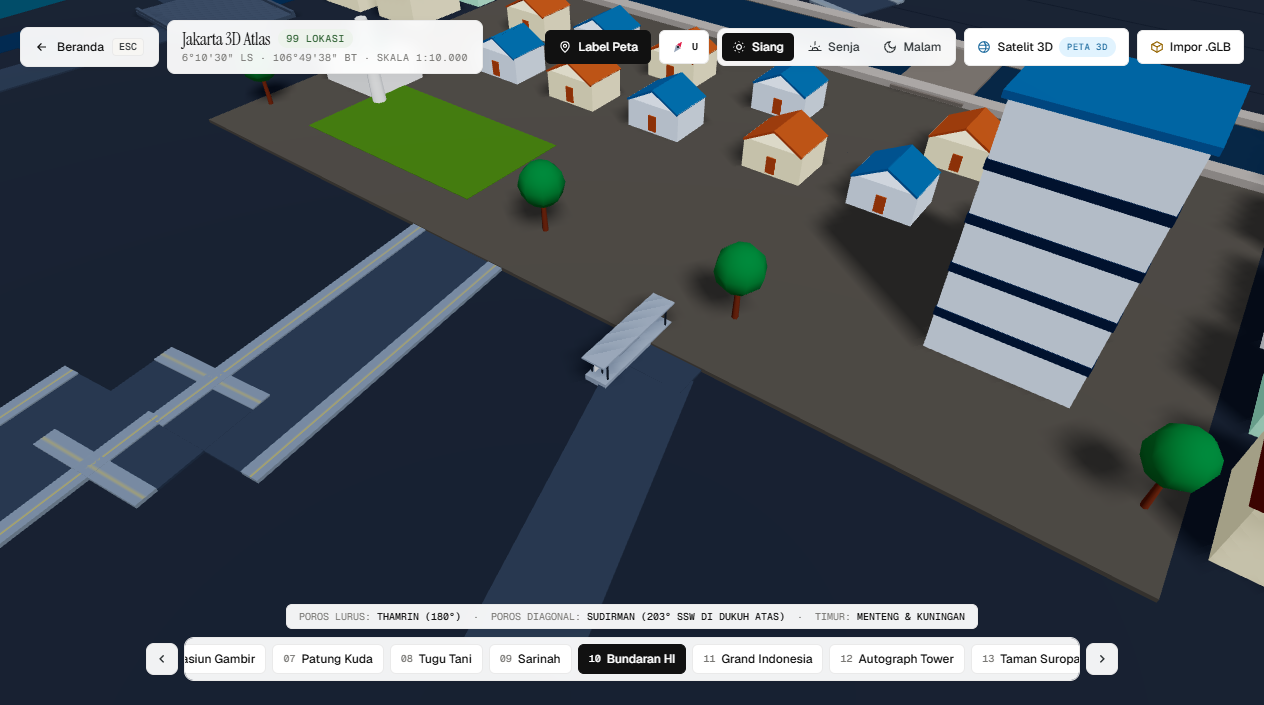
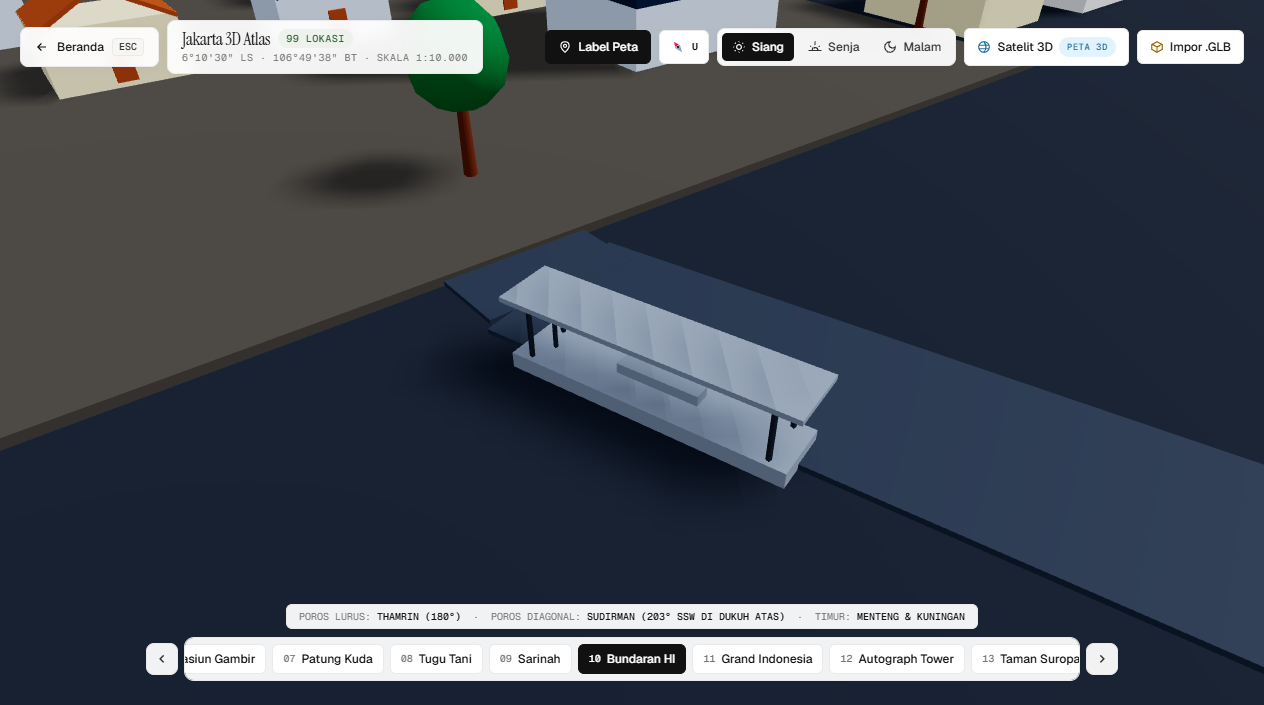
fix(void-e): halte Rorotan berdiri di Jalan Malaka IV HB
Jalan Rorotan XI seluruhnya berjalan di bawah pelat tapak Kampung
Rorotan dan hanya menyisakan 3,6 unit di luar pelat, sehingga peron
12 unit terbenam 3,9 unit ke pelat. Peron dipindah ke bahu barat
Jalan Malaka IV HB, 9,1 unit dari simpang gerbang kampung, dengan
kanopi 6,1 unit bebas dari pelat tapak.

diff --git a/src/world/CityScene.js b/src/world/CityScene.js
@@ -7293,7 +7293,10 @@ export class CityScene {
       { name: 'Halte Kawasan Logistik Marunda', road: 'Medan', near: [1690, -1063], side: -1 },
       { name: 'Halte Rusunawa Nagrak', road: 'Jalan Komplek Militer', near: [1828, -1046], side: 1 },
       { name: 'Halte KBN Cakung', road: 'Jalan Cakung Cilincing Timur', near: [1640, -700], side: -1 },
-      { name: 'Halte Kampung Rorotan', road: 'Jalan Rorotan XI', near: [1904, -649], side: -1 }
+      // Jalan Rorotan XI seluruhnya berjalan di bawah pelat tapak kampung dan
+      // hanya menyisakan 3,6 unit di luar pelat, jadi peron berlabuh di bahu
+      // barat Jalan Malaka IV HB sembilan unit dari simpang gerbang kampung.
+      { name: 'Halte Kampung Rorotan', road: 'Jalan Malaka IV HB', near: [1907.1, -639.8], side: 1 }
     ];
 
     const findRoadPoint = (roadName, near) => {

diff --git a/test_landmarks.js b/test_landmarks.js
@@ -2327,10 +2327,15 @@ assert.ok(voidETransitMethod.includes('parkingBays'), 'Void E transit stats must
   'Medan',
   'Jalan Komplek Militer',
   'Jalan Cakung Cilincing Timur',
-  'Jalan Rorotan XI'
+  'Jalan Malaka IV HB'
 ].forEach((name) => {
   assert.ok(voidETransitMethod.includes(name), `Void E transit missing the ${name} halte corridor`);
 });
+
+assert.ok(
+  voidETransitMethod.includes('near: [1907.1, -639.8]'),
+  'Halte Kampung Rorotan must stand clear of the Kampung Rorotan site slab'
+);
 
 assert.ok(voidEInfillMethod.includes('transitReservations'), 'Void E infill must reserve the transit hub footprint');
 assert.ok(voidEInfillMethod.includes('insideTransitReservation'), 'Void E infill missing the transit reservation test');

diff --git a/docs/ROADMAP.md b/docs/ROADMAP.md
@@ -7,7 +7,7 @@ Repo: `WinduAthallahAhmad-09/3D-View-Jakarta` (branch `main`)
 
 - **99 landmark anchor** (#01 Monas s.d. #99 Kampung Rorotan) di `src/config/landmarks.js`.
 - **100 tombol tour** (99 landmark + tampilan aerial) di `index.html`; seluruh ID landmark memiliki tombol dan builder model.
-- **Satu skrip verifikasi statis** di `test_landmarks.js`, dijalankan dengan `npm test`. Saat ini menjalankan 9.118 assertion yang memeriksa data, metadata, builder, tombol tour, batas deviasi posisi, serta integrasi dataset OSM, infill, dan transit Void B. Sejak F4, skrip juga memastikan lima builder gerbong KRL/MRT/KAI/LRT memakai `bakeRailCarGroup`, PJU memakai dua `InstancedMesh` dengan pool 12 `PointLight`, 647 kendaraan memakai delapan `InstancedMesh`, shadow map berjalan statis dengan refresh terarah, dan DPR adaptif menyinkronkan renderer serta composer. Check 40 mengunci audit visual 2026-10-27: exclusion Danau Rawa Buaya, framing enam preset, material hangar Halim, metalness fasad SCBD, serta atap Stasiun Tanjung Priok. Check 41 mengunci enam anchor Void C Tahap 1: rentang posisi, deviasi GPS ≤80 unit, builder, mapping `CityScene`, tombol tour, dan minimal tiga fakta edukatif. Check 42 mengunci dataset OSM Void C Tahap 2: 185 ruas/478 titik dengan koordinat terbatas pada clip box, lisensi ODbL, proyeksi tanpa warp, tujuh nama jalan kunci, jarak maksimum 60 unit ke enam anchor, builder `buildVoidCMeruya()`, dua konektor akses, jembatan otomatis, dan minimal empat pemakaian mask `isNearVoidCRoad`. Check 43 mengunci infill Void C Tahap 3: `buildVoidCInfill()` dipanggil setelah builder jalan, lima `InstancedMesh` bernama `voidc-*`, koridor ruko Ciledug/Joglo/Bojong, zona Kreo, mask dataset OSM, serta larangan `PointLight` dan material malam baru. Check 44 mengunci transit Void C Tahap 4: `buildVoidCTransit()` setelah infill, Park-and-Ride Kembangan, empat feeder halte pada jalan OSM, lima nama mesh `voidc-transit-*`, statistik runtime, lima draw call, serta larangan `PointLight` dan material malam baru. Check 45 mengunci enam anchor Void D Tahap 1: rentang posisi x/z, deviasi GPS ≤80 unit, builder dengan marker mesh, mapping `CityScene`, tombol tour, minimal tiga fakta edukatif, dan jarak minimum 70 unit antaranchor. Check 46 mengunci dataset OSM Void D Tahap 2: 201 ruas/590 titik, 31 waterway/156 titik, 19 poligon air/225 titik dengan koordinat terbatas pada clip box, lisensi ODbL, proyeksi tanpa warp, tujuh nama jalan kunci, jarak maksimum 60 unit ke keenam anchor, builder `buildVoidDPenjaringan()`, jembatan otomatis, delapan mesh `voidd-*`, serta larangan `PointLight` dan material malam baru. Check 47 mengunci infill Void D Tahap 3: lima `InstancedMesh` `voidd-*`, tujuh koridor ruko, 13 zona permukiman, dua klaster gudang, mask jalan/air/anchor/Pluit, batas koridor ruko sendiri, serta larangan `PointLight` dan material malam baru. Check 48 mengunci transit Void D Tahap 4: `buildVoidDTransit()` setelah infill, Park-and-Ride TWA Angke Kapuk, enam feeder halte pada jalan OSM, lima nama mesh `voidd-transit-*`, statistik runtime, lima draw call, serta larangan `PointLight` dan material malam baru. Check 49 mengunci enam anchor Void E Tahap 1: rentang posisi x/z, deviasi GPS ≤80 unit, builder dengan marker mesh, mapping `CityScene`, tombol tour #94–#99, minimal tiga fakta edukatif, jarak minimum 70 unit antaranchor, ground plane 4.800 unit, grid 4.400 unit/220 divisi, serta larangan `PointLight`. Check 50 mengunci dataset OSM Void E Tahap 2: 148 ruas/640 titik dan 23 waterway/252 titik dengan koordinat terbatas pada clip box, lisensi ODbL, proyeksi tanpa warp, sepuluh nama jalan kunci, lima nama waterway, lebar jalan per kelas, jarak maksimum 60 unit ke lima anchor (<85 unit untuk Rusunawa Nagrak), eksklusi jalur inspeksi Kanal Banjir Timur, serta larangan ruas yang menumpang badan kanal. Check 51 mengunci builder jaringan Void E Tahap 2: urutan `buildVoidECilincing()` setelah `buildVoidDTransit()`, impor dataset OSM, delapan mesh `voide-*`, konektor `Akses Rusunawa Nagrak` ke Jalan Komplek Militer, jembatan otomatis, PJU dan pohon tanpa `PointLight` serta material malam baru, statistik `voidEOsmStats` delapan draw call, dan mask `isNearVoidERoad` untuk infill Tahap 3. Check 52 mengunci infill Void E Tahap 3: urutan `buildVoidEInfill()` setelah jaringan dan sebelum `buildVoidBInfillAndIndustry()`, lima `InstancedMesh` `voide-*`, empat koridor ruko, zona Cilincing/Kebantenan/Marunda/Rorotan/Sungai Tiram, klaster gudang KBN Cakung/Marunda/Cilincing industri, mask jalan/air/enam anchor, batas koridor ruko sendiri, statistik `voidEInfillStats` lima draw call, serta larangan `PointLight` dan material malam baru. Check 53 mengunci transit Void E Tahap 4: urutan `buildVoidETransit()` setelah infill dan sebelum `buildVoidBInfillAndIndustry()`, Park-and-Ride Marunda, enam feeder halte pada jalan OSM (Marunda Empang, Jayapura, Medan, Komplek Militer, Cakung Cilincing Timur, Rorotan XI), lima mesh `voide-transit-*`, statistik `voidETransitStats` lima draw call, reservasi lahan `transitReservations` pada infill, serta larangan `PointLight` dan material malam baru. Ini **bukan 33 unit test suite** dan belum mencakup render, interaksi, atau performa.
+- **Satu skrip verifikasi statis** di `test_landmarks.js`, dijalankan dengan `npm test`. Saat ini menjalankan 9.119 assertion yang memeriksa data, metadata, builder, tombol tour, batas deviasi posisi, serta integrasi dataset OSM, infill, dan transit Void B. Sejak F4, skrip juga memastikan lima builder gerbong KRL/MRT/KAI/LRT memakai `bakeRailCarGroup`, PJU memakai dua `InstancedMesh` dengan pool 12 `PointLight`, 647 kendaraan memakai delapan `InstancedMesh`, shadow map berjalan statis dengan refresh terarah, dan DPR adaptif menyinkronkan renderer serta composer. Check 40 mengunci audit visual 2026-10-27: exclusion Danau Rawa Buaya, framing enam preset, material hangar Halim, metalness fasad SCBD, serta atap Stasiun Tanjung Priok. Check 41 mengunci enam anchor Void C Tahap 1: rentang posisi, deviasi GPS ≤80 unit, builder, mapping `CityScene`, tombol tour, dan minimal tiga fakta edukatif. Check 42 mengunci dataset OSM Void C Tahap 2: 185 ruas/478 titik dengan koordinat terbatas pada clip box, lisensi ODbL, proyeksi tanpa warp, tujuh nama jalan kunci, jarak maksimum 60 unit ke enam anchor, builder `buildVoidCMeruya()`, dua konektor akses, jembatan otomatis, dan minimal empat pemakaian mask `isNearVoidCRoad`. Check 43 mengunci infill Void C Tahap 3: `buildVoidCInfill()` dipanggil setelah builder jalan, lima `InstancedMesh` bernama `voidc-*`, koridor ruko Ciledug/Joglo/Bojong, zona Kreo, mask dataset OSM, serta larangan `PointLight` dan material malam baru. Check 44 mengunci transit Void C Tahap 4: `buildVoidCTransit()` setelah infill, Park-and-Ride Kembangan, empat feeder halte pada jalan OSM, lima nama mesh `voidc-transit-*`, statistik runtime, lima draw call, serta larangan `PointLight` dan material malam baru. Check 45 mengunci enam anchor Void D Tahap 1: rentang posisi x/z, deviasi GPS ≤80 unit, builder dengan marker mesh, mapping `CityScene`, tombol tour, minimal tiga fakta edukatif, dan jarak minimum 70 unit antaranchor. Check 46 mengunci dataset OSM Void D Tahap 2: 201 ruas/590 titik, 31 waterway/156 titik, 19 poligon air/225 titik dengan koordinat terbatas pada clip box, lisensi ODbL, proyeksi tanpa warp, tujuh nama jalan kunci, jarak maksimum 60 unit ke keenam anchor, builder `buildVoidDPenjaringan()`, jembatan otomatis, delapan mesh `voidd-*`, serta larangan `PointLight` dan material malam baru. Check 47 mengunci infill Void D Tahap 3: lima `InstancedMesh` `voidd-*`, tujuh koridor ruko, 13 zona permukiman, dua klaster gudang, mask jalan/air/anchor/Pluit, batas koridor ruko sendiri, serta larangan `PointLight` dan material malam baru. Check 48 mengunci transit Void D Tahap 4: `buildVoidDTransit()` setelah infill, Park-and-Ride TWA Angke Kapuk, enam feeder halte pada jalan OSM, lima nama mesh `voidd-transit-*`, statistik runtime, lima draw call, serta larangan `PointLight` dan material malam baru. Check 49 mengunci enam anchor Void E Tahap 1: rentang posisi x/z, deviasi GPS ≤80 unit, builder dengan marker mesh, mapping `CityScene`, tombol tour #94–#99, minimal tiga fakta edukatif, jarak minimum 70 unit antaranchor, ground plane 4.800 unit, grid 4.400 unit/220 divisi, serta larangan `PointLight`. Check 50 mengunci dataset OSM Void E Tahap 2: 148 ruas/640 titik dan 23 waterway/252 titik dengan koordinat terbatas pada clip box, lisensi ODbL, proyeksi tanpa warp, sepuluh nama jalan kunci, lima nama waterway, lebar jalan per kelas, jarak maksimum 60 unit ke lima anchor (<85 unit untuk Rusunawa Nagrak), eksklusi jalur inspeksi Kanal Banjir Timur, serta larangan ruas yang menumpang badan kanal. Check 51 mengunci builder jaringan Void E Tahap 2: urutan `buildVoidECilincing()` setelah `buildVoidDTransit()`, impor dataset OSM, delapan mesh `voide-*`, konektor `Akses Rusunawa Nagrak` ke Jalan Komplek Militer, jembatan otomatis, PJU dan pohon tanpa `PointLight` serta material malam baru, statistik `voidEOsmStats` delapan draw call, dan mask `isNearVoidERoad` untuk infill Tahap 3. Check 52 mengunci infill Void E Tahap 3: urutan `buildVoidEInfill()` setelah jaringan dan sebelum `buildVoidBInfillAndIndustry()`, lima `InstancedMesh` `voide-*`, empat koridor ruko, zona Cilincing/Kebantenan/Marunda/Rorotan/Sungai Tiram, klaster gudang KBN Cakung/Marunda/Cilincing industri, mask jalan/air/enam anchor, batas koridor ruko sendiri, statistik `voidEInfillStats` lima draw call, serta larangan `PointLight` dan material malam baru. Check 53 mengunci transit Void E Tahap 4: urutan `buildVoidETransit()` setelah infill dan sebelum `buildVoidBInfillAndIndustry()`, Park-and-Ride Marunda, enam feeder halte pada jalan OSM (Marunda Empang, Jayapura, Medan, Komplek Militer, Cakung Cilincing Timur, Malaka IV HB), lima mesh `voide-transit-*`, statistik `voidETransitStats` lima draw call, reservasi lahan `transitReservations` pada infill, serta larangan `PointLight` dan material malam baru. Ini **bukan 33 unit test suite** dan belum mencakup render, interaksi, atau performa.
 - Kawasan inti Jakarta Pusat, Jakarta Selatan, dan Jakarta Utara selesai.
 - Jakarta Timur selesai 4 tahap.
 - Void A (Jakarta Barat Tengah) selesai 4 tahap.
@@ -229,12 +229,13 @@ Void E mencakup Cilincing, Marunda, Rorotan, dan KBN Cakung. Tahap 1 (selesai 20
 - **Verifikasi runtime Tahap 2** (Chrome headless 156 SwiftShader, viewport 1280×800, DPR 1): 0 error konsol dan 0 exception; delapan mesh `voide-*` ditemukan (roads 3.944 / sidewalks 3.264 / water 1.832 / bridges 336 / poles 810,7 / bulbs 1.026 triangle, dua `InstancedMesh` 107 pohon); `voidEOsmStats` = 148 ruas/640 titik/23 waterway/14 jembatan/38 lampu/107 pohon/1 konektor/8 draw call; selisih draw call terukur tepat **+8** (421 vs 413) saat mesh disembunyikan lewat render terkontrol `info.autoReset=false`; 13 `PointLight` tetap (1 Monas + pool 12 PJU); label #99 dalam frame; konektor 58,2 unit dari tapak dan 0,00 unit dari jalan OSM. Tiga belas screenshot `voide2-*.png` (9 siang, 4 malam) tersimpan; PJU menyala dengan bloom pada tampilan jalan malam.
 - **Builder infill Tahap 3 (selesai 2026-10-29):** `buildVoidEInfill()` berjalan setelah `buildVoidECilincing()` dan sebelum `buildVoidBInfillAndIndustry()`. Statistik runtime `voidEInfillStats`: **167 rumah**, **71 ruko**, **76 gudang**, **10 zona permukiman**, **4 koridor ruko**, dan **5 draw call**. Seluruh massa dirender sebagai lima `InstancedMesh` — `voide-houses`, `voide-shophouses`, `voide-house-roofs` (238 atap = 167 rumah + 71 ruko), `voide-warehouses`, dan `voide-warehouse-roofs` (76) — dengan warna per instance. Ruko berdiri dua sisi pada Jalan Raya Cilincing, Jalan Cakung Cilincing Timur, Jalan Cakung Cilincing Barat, dan Jalan Marunda Makmur, memakai rantai way yang disambung agar deret tidak terputus; gudang menempati 12 sub-zona dalam empat klaster (KBN Cakung, Marunda, Cilincing industri, Cakung timur). Penempatan memakai mask koridor seluruh jalan OSM, waterway (setengah lebar + 4), enam tapak anchor, batas koridor ruko sendiri, dan jarak antarinstance ≥ rA + rB + 2. Atap gudang memakai abu-abu menengah dan metalness 0,25 karena slate gelap + metalness tinggi tampil nyaris hitam tanpa environment map. Check 52 mengunci builder ini.
 - **Verifikasi runtime Tahap 3** (Chrome headless 156 SwiftShader, viewport 1280×800, DPR 1): 0 error konsol dan 0 exception; audit instance **167 rumah / 71 ruko / 76 gudang** mencatat 0 instance di dalam enam tapak anchor, 0 di badan air, 0 menabrak koridor jalan (jarak bebas minimum 8,02 / 7,70 / 13,98 unit), 0 pasangan tumpang-tindih, dan 0 di luar clip box; 238 atap rumah+ruko dan 76 atap gudang konsisten (sebelum Tahap 4 memesan lahan plaza dan mengurangi ruko menjadi 68 dengan 235 atap). Selisih draw call terukur tepat **+5** (426 vs 421, 6.280 triangle) lewat render terkontrol `info.autoReset=false`; 13 `PointLight` tetap (1 Monas + pool 12 PJU). Dua belas screenshot `voide3-*.png` (9 siang, 3 malam) tersimpan; malam hanya diterangi pool PJU karena massa infill belum terdaftar di `nightMaterials`.
-- **Builder transit Tahap 4 (selesai 2026-10-29):** `buildVoidETransit()` berjalan setelah `buildVoidEInfill()` dan sebelum `buildVoidBInfillAndIndustry()`. **Park-and-Ride Marunda** di utara Jalan Marunda Makmur: plaza beton 44×22 di (2.016, -1.284), driveway 8×14 ke badan arteri di sisi selatan, **8 lajur parkir** bergaris di sisi utara (z ≈ -1.290,5), dua shelter 12×2,2 di x 2.005/2.027 dengan punggung menghadap deret parkir dan muka ke arteri, totem di pintu masuk barat, dan **enam pohon** peneduh. **Enam feeder halte** berlabuh pada segmen OSM terdekat: Halte Rusunawa Marunda (Jalan Marunda Empang), Rumah Si Pitung (Jalan Jayapura), Kawasan Logistik Marunda (Medan), Rusunawa Nagrak (Jalan Komplek Militer), KBN Cakung (Jalan Cakung Cilincing Timur), dan Kampung Rorotan (Jalan Rorotan XI); tiap halte berupa peron 12×2,6 yang dinaikkan 0,7 unit, kanopi baja di empat kolom, bangku beton, dan papan rute. Seluruh elemen digabung menjadi **tiga mesh** (beton, baja, papan) plus **dua `InstancedMesh`** pohon = **5 draw call**, tanpa `PointLight` dan material malam baru. Lahan plaza dipesan di `buildVoidEInfill` melalui `transitReservations` [1.990, 2.042, -1.300, -1.268] agar ruko tidak menutup plaza; ruko **71 → 68** dan atap **238 → 235**. Check 53 mengunci builder ini.
-- **Verifikasi runtime Tahap 4** (Chrome headless 156 SwiftShader, viewport 1280×800, DPR 1): 0 error konsol dan 0 exception; `voidETransitStats` = Park and Ride Marunda/8 lajur/6 halte/6 pohon/5 draw call; lima mesh ditemukan (beton 264, baja 564, papan 264 triangle; dua `InstancedMesh` 6 instance); enam pusat halte berada 0,2 unit di dalam tepi koridor jalan yang dituju (sesuai rumus bahu `lebar/2 − 0,2`), 0 platform menembus mesh anchor, dan audit 730 instance infill di sekitar plaza mencatat 0 tumpang-tindih dengan jarak bebas minimum 10,2 unit; 13 `PointLight` tetap (1 Monas + pool 12 PJU). Draw call siang di kamera hub (2.016, 150, -1.140 → 2.016, 0, -1.290): **143** dengan transit dan **138** saat lima mesh disembunyikan — selisih tepat **+5**, triangle 57.514 vs 56.194. Lima belas screenshot `voide4-*.png` (9 siang, 2 malam, 4 close-up) tersimpan; statistik malam tidak diklaim karena pass bloom menimpa `renderer.info`.
+- **Builder transit Tahap 4 (selesai 2026-10-29):** `buildVoidETransit()` berjalan setelah `buildVoidEInfill()` dan sebelum `buildVoidBInfillAndIndustry()`. **Park-and-Ride Marunda** di utara Jalan Marunda Makmur: plaza beton 44×22 di (2.016, -1.284), driveway 8×14 ke badan arteri di sisi selatan, **8 lajur parkir** bergaris di sisi utara (z ≈ -1.290,5), dua shelter 12×2,2 di x 2.005/2.027 dengan punggung menghadap deret parkir dan muka ke arteri, totem di pintu masuk barat, dan **enam pohon** peneduh. **Enam feeder halte** berlabuh pada segmen OSM terdekat: Halte Rusunawa Marunda (Jalan Marunda Empang), Rumah Si Pitung (Jalan Jayapura), Kawasan Logistik Marunda (Medan), Rusunawa Nagrak (Jalan Komplek Militer), KBN Cakung (Jalan Cakung Cilincing Timur), dan Kampung Rorotan (Jalan Malaka IV HB, sembilan unit dari simpang Jalan Rorotan XI); tiap halte berupa peron 12×2,6 yang dinaikkan 0,7 unit, kanopi baja di empat kolom, bangku beton, dan papan rute. Seluruh elemen digabung menjadi **tiga mesh** (beton, baja, papan) plus **dua `InstancedMesh`** pohon = **5 draw call**, tanpa `PointLight` dan material malam baru. Lahan plaza dipesan di `buildVoidEInfill` melalui `transitReservations` [1.990, 2.042, -1.300, -1.268] agar ruko tidak menutup plaza; ruko **71 → 68** dan atap **238 → 235**. Check 53 mengunci builder ini.
+- **Verifikasi runtime Tahap 4** (Chrome headless 156 SwiftShader, viewport 1280×800, DPR 1): 0 error konsol dan 0 exception; `voidETransitStats` = Park and Ride Marunda/8 lajur/6 halte/6 pohon/5 draw call; lima mesh ditemukan (beton 264, baja 564, papan 264 triangle; dua `InstancedMesh` 6 instance); enam pusat halte berada 0,2 unit di dalam tepi koridor jalan yang dituju (sesuai rumus bahu `lebar/2 − 0,2`), kanopi Halte Kampung Rorotan 6,1 unit bebas dari tepi pelat tapak Rorotan, dan audit 730 instance infill di sekitar plaza mencatat 0 tumpang-tindih dengan jarak bebas minimum 10,2 unit; 13 `PointLight` tetap (1 Monas + pool 12 PJU). Draw call siang di kamera hub (2.016, 150, -1.140 → 2.016, 0, -1.290): **143** dengan transit dan **138** saat lima mesh disembunyikan — selisih tepat **+5**, triangle 57.514 vs 56.194. Lima belas screenshot `voide4-*.png` (9 siang, 2 malam, 4 close-up) tersimpan; statistik malam tidak diklaim karena pass bloom menimpa `renderer.info`.
 - **P1 yang diperbaiki saat verifikasi visual Tahap 4:** shelter hub awalnya memasang panel punggung di sisi selatan sehingga penumpang membelakangi arteri; panel punggung, dinding samping, dan papan rute dipindah ke sisi utara (menghadap deret parkir) agar muka shelter menghadap Jalan Marunda Makmur. Komentar arah juga dikoreksi: plaza berada di **utara** arteri, lajur parkir di sisi utara, driveway di sisi selatan.
+- **P2 diperbaiki 2026-10-29 — peron Rorotan menembus pelat tapak:** Jalan Rorotan XI seluruhnya berjalan di bawah pelat tapak Kampung Rorotan dan hanya menyisakan 3,6 unit di luar pelat, sehingga peron 12 unit tidak mungkin berdiri di bahunya tanpa terbenam. Peron dipindah ke bahu barat **Jalan Malaka IV HB** di (1.902,9, -638,5), 9,1 unit dari simpang gerbang kampung dan tetap sejajar koridor OSM. Audit runtime: 0 verteks mesh transit di dalam pelat tapak, jarak bebas minimum **6,1 unit** (sebelumnya terbenam 3,9 unit), tidak ada sisa geometri di lokasi lama, 0 instance infill/pohon/PJU dalam 50 unit, 13 `PointLight` tetap, dan selisih draw call hub tetap **+5** (143 vs 138). Screenshot `voide4-day-08-halte-rorotan.png` dan `voide4-close-rorotan.png` diperbarui. Check 53 kini mengunci koridor `Jalan Malaka IV HB` beserta koordinat `near`.
 - **P1 yang diperbaiki saat verifikasi visual Tahap 1:** atap gudang dan pabrik awalnya berupa dua panel sempit yang terpisah (ridge gap 8,8–9,6 unit) — lebar dan posisi slab dihitung ulang agar bertemu di ridge dan menutup penuh bentang; atap 12 rumah Rorotan juga menyisakan celah 1,1 unit, diperbaiki dengan slab 5,2 di ±2,2; pita jendela rusun tersembunyi di dalam badan menara (kedalaman 13,1 < 14) sehingga hanya tampak sebagai goresan — kedalaman dinaikkan menjadi 14,3/12,3; tapak Rusunawa Marunda (160 unit) sempat menabrak tapak Rumah Si Pitung sehingga dipersempit ke 146 unit dan Si Pitung digeser ke (1.870, -1.438) dengan deviasi GPS 66 unit (masih ≤80).
 - **Verifikasi runtime Tahap 1** (Chrome headless 156 SwiftShader, viewport 1280×800, DPR 1): 0 error konsol dan 0 exception; enam marker ditemukan dengan 40/24/21/16/5/48 mesh; label #94–#99 masuk frame dan bernomor benar; 13 `PointLight` tetap (1 Monas + pool 12 PJU), shadow map statis. Draw call siang: overview Void E **393** (36.506 triangle), klaster utara **346** (55.100), Rusunawa Marunda **92**, Rumah Si Pitung **66**, Logistik Marunda **151**, Rusunawa Nagrak **109**, KBN Cakung **186**, Kampung Rorotan **163**. Sebelas screenshot tersimpan di `docs/verification/screenshots/voide-*.png` (8 siang, 3 malam). Statistik malam tidak valid karena pass bloom menimpa `renderer.info`.
-- **P2 terbuka:** materi anchor, infill, dan transit Void E belum terdaftar di `nightMaterials` sehingga malam hanya diterangi cahaya bulan dan pool PJU; pandangan udara malam koridor Cilincing–Marunda gelap karena tidak ada `PointLight` lokal (sesuai desain, PJU hanya emissive); plaza dan keenam halte Tahap 4 ikut gelap saat malam; ujung utara peron Halte Kampung Rorotan (z -654,9 s.d. -643) terbenam ±3,9 unit ke pelat tapak Kampung Rorotan (tepi selatan z -651, tinggi 0,5) karena Jalan Rorotan XI berjalan di bawah tapak; peron Halte KBN Cakung berdiri di celah dua koridor trunk Cilincing Timur/Barat yang hampir berimpit sehingga terbaca seperti peron median; ujung waterway terpotong persegi mengikuti titik akhir way OSM; dek jembatan lebar terbaca sebagai slab pada zoom jauh; sebaran rumah di tepi zona renggang karena mask koridor jalan/air; belum ada label DOM untuk elemen internal tiap tapak, halte, dan park-and-ride.
+- **P2 terbuka:** materi anchor, infill, dan transit Void E belum terdaftar di `nightMaterials` sehingga malam hanya diterangi cahaya bulan dan pool PJU; pandangan udara malam koridor Cilincing–Marunda gelap karena tidak ada `PointLight` lokal (sesuai desain, PJU hanya emissive); plaza dan keenam halte Tahap 4 ikut gelap saat malam; peron Halte KBN Cakung berdiri di celah dua koridor trunk Cilincing Timur/Barat yang hampir berimpit sehingga terbaca seperti peron median; ujung waterway terpotong persegi mengikuti titik akhir way OSM; dek jembatan lebar terbaca sebagai slab pada zoom jauh; sebaran rumah di tepi zona renggang karena mask koridor jalan/air; belum ada label DOM untuk elemen internal tiap tapak, halte, dan park-and-ride.
 - **Belum diverifikasi:** FPS perangkat nyata, klik drawer pada objek Void E termasuk halte dan park-and-ride, serta perilaku malam dengan bloom pada DPR berbeda.
 
 ## Catatan F4 — Optimasi performa
@@ -271,7 +272,7 @@ Kebijakan ini didokumentasikan pula di header `src/config/landmarks.js`.
 ## Klaim yang belum terverifikasi
 
 - **"60 FPS" belum terbukti pada perangkat uji.** Baseline runtime 2026-10-26 di Chrome (viewport 831×785, Intel UHD Graphics via ANGLE/D3D11): pandangan Danau Rawa Buaya **13,9 FPS / 411 draw call per frame**, Bundaran HI **9,8 FPS / 1.206 draw call per frame**. Baseline ini diambil sebelum Tahap 3; Void B Tahap 2 menambah 10 draw call, Tahap 3 menambah 9 draw call, dan Tahap 4 menambah 14 draw call (6 mesh transit + 8 mesh gerbong); Void C Tahap 2–4 menambah 17 draw call (7 + 5 + 5), Void D Tahap 2–4 menambah 18 draw call (8 jaringan + 5 infill + 5 transit), Void E Tahap 2 menambah 8 draw call (jaringan), Tahap 3 menambah 5 draw call (infill), dan Tahap 4 menambah 5 draw call (transit), sehingga bukan penyebab utama. F4 Tahap 1–3 menurunkan draw call siang Bundaran HI menjadi **329** (viewport 531×553); FPS indikatif Tahap 2 sempat **20,6**, tetapi angka FPS tidak diklaim karena pengukuran pada Intel UHD sangat bervariasi dan permukaan browser uji berstatus `hidden`. DPR adaptif kini menahan resolusi minimum 0,6 untuk menjaga frame rate. Beban statis mencakup 647 kendaraan (614 rute + 33 roundabout) dalam 8 `InstancedMesh`, 193 PJU sebagai 2 `InstancedMesh` + pool 12 `PointLight`, enam anchor Void D sebagai geometri statis (aerial 405 draw call sebelum Tahap 2, 463 sesudahnya), delapan mesh jaringan Void D, lima `InstancedMesh` infill Void D, lima mesh transit Void D, delapan mesh jaringan Void E, lima `InstancedMesh` infill Void E, lima mesh transit Void E, enam tapak Void E sebagai geometri statis, dan 99 label DOM.
-- **Verifikasi visual sudah memakai screenshot browser, tetapi belum otomatis.** Audit 2026-10-27 menangkap 14 sudut pandang, Void C Tahap 1 menangkap 12 sudut pandang (7 siang, 5 malam), Void C Tahap 2 menangkap 10 sudut pandang (7 siang, 3 malam), Void C Tahap 3 menangkap 12 sudut pandang (9 siang, 3 malam), Void C Tahap 4 menangkap 11 sudut pandang (9 siang, 2 malam), Void D Tahap 1 menangkap 10 sudut pandang (7 siang, 3 malam), Void D Tahap 2 menangkap 12 sudut pandang (9 siang, 3 malam), Void D Tahap 3 menangkap 12 sudut pandang (9 siang, 3 malam), Void D Tahap 4 menangkap 12 sudut pandang (9 siang, 3 malam), Void E Tahap 1 menangkap 11 sudut pandang (8 siang, 3 malam), Void E Tahap 2 menangkap 13 sudut pandang (9 siang, 4 malam), Void E Tahap 3 menangkap 12 sudut pandang (9 siang, 3 malam), dan Void E Tahap 4 menangkap 15 sudut pandang (9 siang, 2 malam, 4 close-up) dari source final, memeriksa framing, label, serta material secara manual. Pemeriksaan programatik Tahap 3–4 tetap menjadi bukti tambahan: jumlah instance, tidak ada tumpang-tindih AABB rumah/gudang, jarak bebas terhadap jalan OSM (rumah 5,4 unit, ruko 1,4 unit, gudang 32,7 unit), enam mesh transit, dua kereta KA Bandara (2 gerbong masing-masing), panjang kurva 759 unit tanpa sampel NaN, jarak bebas viaduk ke gudang ≥2,34 unit dan ke RSUD 10,41 unit, serta papan portal bertekstur `KA BANDARA`. Untuk Void D Tahap 3, audit instance mencatat 237 rumah/127 ruko/31 gudang, 0 pasangan instance berjarak <6 unit, 0 instance di dalam tapak anchor atau blok Pluit, dan jarak pusat instance ke tepi jalan minimum 6,45 unit. Untuk Void D Tahap 4, audit runtime mencatat lima mesh transit (264/564/264 triangle + dua `InstancedMesh` 6 pohon), plaza hub bebas infill 27,64 unit, kanopi enam halte bebas infill 0,99–47,71 unit, dan selisih draw call tepat +5 saat lima mesh transit disembunyikan. Untuk Void E Tahap 2, render terkontrol `info.autoReset=false` mencatat selisih draw call tepat +8 (421 vs 413) saat delapan mesh `voide-*` disembunyikan, konektor berjarak 58,2 unit dari tapak dan 0,00 unit dari jalan OSM, serta 13 `PointLight` tidak berubah. Untuk Void E Tahap 3, audit instance mencatat 167 rumah/71 ruko/76 gudang, 0 instance di tapak anchor/air/jalan, 0 pasangan tumpang-tindih, dan selisih draw call tepat +5 (426 vs 421) saat lima `InstancedMesh` infill disembunyikan. Untuk Void E Tahap 4, render terkontrol mencatat selisih draw call tepat +5 (143 vs 138) di kamera hub saat lima mesh transit disembunyikan, enam halte berjarak 0,2 unit di dalam tepi koridor yang dituju tanpa menembus mesh anchor, dan 730 instance infill di sekitar plaza bebas tumpang-tindih dengan jarak bebas minimum 10,2 unit. Belum ada diff screenshot otomatis; interaksi kamera, klik drawer, dan FPS belum diuji.
+- **Verifikasi visual sudah memakai screenshot browser, tetapi belum otomatis.** Audit 2026-10-27 menangkap 14 sudut pandang, Void C Tahap 1 menangkap 12 sudut pandang (7 siang, 5 malam), Void C Tahap 2 menangkap 10 sudut pandang (7 siang, 3 malam), Void C Tahap 3 menangkap 12 sudut pandang (9 siang, 3 malam), Void C Tahap 4 menangkap 11 sudut pandang (9 siang, 2 malam), Void D Tahap 1 menangkap 10 sudut pandang (7 siang, 3 malam), Void D Tahap 2 menangkap 12 sudut pandang (9 siang, 3 malam), Void D Tahap 3 menangkap 12 sudut pandang (9 siang, 3 malam), Void D Tahap 4 menangkap 12 sudut pandang (9 siang, 3 malam), Void E Tahap 1 menangkap 11 sudut pandang (8 siang, 3 malam), Void E Tahap 2 menangkap 13 sudut pandang (9 siang, 4 malam), Void E Tahap 3 menangkap 12 sudut pandang (9 siang, 3 malam), dan Void E Tahap 4 menangkap 15 sudut pandang (9 siang, 2 malam, 4 close-up) dari source final, memeriksa framing, label, serta material secara manual. Pemeriksaan programatik Tahap 3–4 tetap menjadi bukti tambahan: jumlah instance, tidak ada tumpang-tindih AABB rumah/gudang, jarak bebas terhadap jalan OSM (rumah 5,4 unit, ruko 1,4 unit, gudang 32,7 unit), enam mesh transit, dua kereta KA Bandara (2 gerbong masing-masing), panjang kurva 759 unit tanpa sampel NaN, jarak bebas viaduk ke gudang ≥2,34 unit dan ke RSUD 10,41 unit, serta papan portal bertekstur `KA BANDARA`. Untuk Void D Tahap 3, audit instance mencatat 237 rumah/127 ruko/31 gudang, 0 pasangan instance berjarak <6 unit, 0 instance di dalam tapak anchor atau blok Pluit, dan jarak pusat instance ke tepi jalan minimum 6,45 unit. Untuk Void D Tahap 4, audit runtime mencatat lima mesh transit (264/564/264 triangle + dua `InstancedMesh` 6 pohon), plaza hub bebas infill 27,64 unit, kanopi enam halte bebas infill 0,99–47,71 unit, dan selisih draw call tepat +5 saat lima mesh transit disembunyikan. Untuk Void E Tahap 2, render terkontrol `info.autoReset=false` mencatat selisih draw call tepat +8 (421 vs 413) saat delapan mesh `voide-*` disembunyikan, konektor berjarak 58,2 unit dari tapak dan 0,00 unit dari jalan OSM, serta 13 `PointLight` tidak berubah. Untuk Void E Tahap 3, audit instance mencatat 167 rumah/71 ruko/76 gudang, 0 instance di tapak anchor/air/jalan, 0 pasangan tumpang-tindih, dan selisih draw call tepat +5 (426 vs 421) saat lima `InstancedMesh` infill disembunyikan. Untuk Void E Tahap 4, render terkontrol mencatat selisih draw call tepat +5 (143 vs 138) di kamera hub saat lima mesh transit disembunyikan, enam halte berjarak 0,2 unit di dalam tepi koridor yang dituju dengan peron Rorotan 6,1 unit bebas dari pelat tapak, dan 730 instance infill di sekitar plaza bebas tumpang-tindih dengan jarak bebas minimum 10,2 unit. Belum ada diff screenshot otomatis; interaksi kamera, klik drawer, dan FPS belum diuji.
 - **"33/33 unit test suites" tidak didukung repo.** Yang tersedia adalah satu skrip verifikasi statis.
 - Belum ada tes otomatis untuk render, interaksi kamera, atau regresi visual; baseline screenshot masih diperiksa manual.
 

diff --git a/README.md b/README.md
@@ -54,7 +54,7 @@ python -m http.server 8000
 npm test
 ```
 
-Perintah ini menjalankan satu skrip verifikasi statis (9.118 assertion) untuk 99 landmark: jumlah dan ID unik, kelengkapan metadata, ketersediaan builder, kelengkapan tombol tour, batas penyimpangan posisi terhadap proyeksi GPS, serta integritas dataset OSM, infill, dan transit Void B. Sejak F4, verifikasi juga mengunci gerbong kereta dua mesh tanpa bayangan dinamis, 193 tiang/lampu PJU sebagai dua `InstancedMesh`, pool 12 `PointLight`, shadow map statis, 647 kendaraan dalam delapan `InstancedMesh`, serta DPR adaptif yang menyinkronkan renderer dan composer. Check 40 mengunci perbaikan audit visual 2026-10-27: exclusion Danau Rawa Buaya, framing enam preset, material hangar Halim, fasad SCBD, dan atap Stasiun Tanjung Priok. Check 41 mengunci enam anchor Void C Tahap 1: rentang posisi, deviasi GPS ≤80 unit, builder, mapping `CityScene`, tombol tour, dan metadata edukatif. Check 42 mengunci dataset OSM Void C Tahap 2 (185 ruas, 478 titik, lisensi ODbL, proyeksi tanpa warp), tujuh nama jalan kunci, jarak maksimum 60 unit ke anchor, builder `buildVoidCMeruya()`, konektor akses, jembatan otomatis, dan mask koridor `isNearVoidCRoad`. Check 43 mengunci infill Tahap 3: urutan `buildVoidCInfill()` setelah jaringan jalan, lima `InstancedMesh` (rumah, ruko, atap, gudang, atap gudang), koridor ruko Ciledug/Joglo/Bojong, zona Kreo, mask dataset OSM, dan larangan `PointLight` serta material malam baru. Check 44 mengunci transit Void C Tahap 4: urutan `buildVoidCTransit()` setelah infill, Park-and-Ride Kembangan, empat feeder halte yang berlabuh pada jalan OSM (Meruya Ilir, Joglo Raya, Ciledug Raya, Puri Kembangan), tiga mesh gabungan + dua `InstancedMesh` pohon, serta larangan `PointLight` dan material malam baru. Check 45 mengunci enam anchor Void D Tahap 1: rentang posisi x/z, deviasi GPS ≤80 unit, builder dengan marker mesh, mapping `CityScene`, tombol tour, minimal tiga fakta edukatif, dan jarak minimum 70 unit antaranchor. Check 46 mengunci dataset OSM Void D Tahap 2: 201 ruas/590 titik, 31 waterway/156 titik, 19 poligon air/225 titik, lisensi ODbL, proyeksi tanpa warp, tujuh nama jalan kunci, jarak maksimum 60 unit ke keenam anchor, builder `buildVoidDPenjaringan()`, jembatan otomatis, delapan mesh `voidd-*`, serta larangan `PointLight` dan material malam baru. Check 47 mengunci infill Void D Tahap 3: urutan `buildVoidDInfill()` setelah jaringan, lima `InstancedMesh` (rumah, ruko, atap rumah, gudang, atap gudang), tujuh koridor ruko, 13 zona permukiman, dua klaster gudang, mask jalan/air/anchor/Pluit, batas koridor ruko sendiri, serta larangan `PointLight` dan material malam baru. Check 48 mengunci transit Void D Tahap 4: urutan `buildVoidDTransit()` setelah infill, Park-and-Ride TWA Angke Kapuk, enam feeder halte yang berlabuh pada jalan OSM (Pantai Indah Kapuk, TWA, Kapuk Raya, Kapuk Muara, Teluk Gong, Pluit Utara), tiga mesh gabungan + dua `InstancedMesh` pohon, serta larangan `PointLight` dan material malam baru. Check 49 mengunci enam anchor Void E Tahap 1: rentang posisi x/y/z, deviasi GPS ≤80 unit, builder dengan marker mesh, mapping `CityScene`, tombol tour #94–#99, minimal tiga fakta edukatif, jarak minimum 70 unit antaranchor, perluasan ground plane 4.800 unit, grid 4.400 unit/220 divisi, serta larangan `PointLight`. Check 50 mengunci dataset OSM Void E Tahap 2: 148 ruas/640 titik dan 23 waterway/252 titik dengan koordinat terbatas pada clip box, lisensi ODbL, proyeksi tanpa warp, sepuluh nama jalan kunci, lima nama waterway, lebar jalan per kelas, jarak maksimum 60 unit ke lima anchor (<85 unit untuk Rusunawa Nagrak), eksklusi jalur inspeksi Kanal Banjir Timur, serta larangan ruas yang menumpang badan kanal. Check 51 mengunci builder jaringan Void E Tahap 2: urutan `buildVoidECilincing()` setelah `buildVoidDTransit()`, impor dataset OSM, delapan mesh `voide-*`, konektor `Akses Rusunawa Nagrak` ke Jalan Komplek Militer, jembatan otomatis, PJU dan pohon tanpa `PointLight` serta material malam baru, statistik `voidEOsmStats` delapan draw call, dan mask `isNearVoidERoad` untuk infill Tahap 3. Check 52 mengunci infill Void E Tahap 3: urutan `buildVoidEInfill()` setelah jaringan, lima `InstancedMesh` `voide-*` (rumah, ruko, atap, gudang, atap gudang), empat koridor ruko, zona Cilincing/Kebantenan/Marunda/Rorotan/Sungai Tiram, klaster gudang KBN Cakung/Marunda/Cilincing industri, mask jalan/air/enam anchor, batas koridor ruko sendiri, statistik `voidEInfillStats` lima draw call, serta larangan `PointLight` dan material malam baru. Check 53 mengunci transit Void E Tahap 4: urutan `buildVoidETransit()` setelah infill dan sebelum `buildVoidBInfillAndIndustry()`, Park-and-Ride Marunda, enam feeder halte yang berlabuh pada jalan OSM (Marunda Empang, Jayapura, Medan, Komplek Militer, Cakung Cilincing Timur, Rorotan XI), lima mesh `voide-transit-*`, statistik `voidETransitStats` lima draw call, reservasi lahan `transitReservations` pada infill, serta larangan `PointLight` dan material malam baru. Ini bukan pengganti pengujian render atau performa di browser.
+Perintah ini menjalankan satu skrip verifikasi statis (9.119 assertion) untuk 99 landmark: jumlah dan ID unik, kelengkapan metadata, ketersediaan builder, kelengkapan tombol tour, batas penyimpangan posisi terhadap proyeksi GPS, serta integritas dataset OSM, infill, dan transit Void B. Sejak F4, verifikasi juga mengunci gerbong kereta dua mesh tanpa bayangan dinamis, 193 tiang/lampu PJU sebagai dua `InstancedMesh`, pool 12 `PointLight`, shadow map statis, 647 kendaraan dalam delapan `InstancedMesh`, serta DPR adaptif yang menyinkronkan renderer dan composer. Check 40 mengunci perbaikan audit visual 2026-10-27: exclusion Danau Rawa Buaya, framing enam preset, material hangar Halim, fasad SCBD, dan atap Stasiun Tanjung Priok. Check 41 mengunci enam anchor Void C Tahap 1: rentang posisi, deviasi GPS ≤80 unit, builder, mapping `CityScene`, tombol tour, dan metadata edukatif. Check 42 mengunci dataset OSM Void C Tahap 2 (185 ruas, 478 titik, lisensi ODbL, proyeksi tanpa warp), tujuh nama jalan kunci, jarak maksimum 60 unit ke anchor, builder `buildVoidCMeruya()`, konektor akses, jembatan otomatis, dan mask koridor `isNearVoidCRoad`. Check 43 mengunci infill Tahap 3: urutan `buildVoidCInfill()` setelah jaringan jalan, lima `InstancedMesh` (rumah, ruko, atap, gudang, atap gudang), koridor ruko Ciledug/Joglo/Bojong, zona Kreo, mask dataset OSM, dan larangan `PointLight` serta material malam baru. Check 44 mengunci transit Void C Tahap 4: urutan `buildVoidCTransit()` setelah infill, Park-and-Ride Kembangan, empat feeder halte yang berlabuh pada jalan OSM (Meruya Ilir, Joglo Raya, Ciledug Raya, Puri Kembangan), tiga mesh gabungan + dua `InstancedMesh` pohon, serta larangan `PointLight` dan material malam baru. Check 45 mengunci enam anchor Void D Tahap 1: rentang posisi x/z, deviasi GPS ≤80 unit, builder dengan marker mesh, mapping `CityScene`, tombol tour, minimal tiga fakta edukatif, dan jarak minimum 70 unit antaranchor. Check 46 mengunci dataset OSM Void D Tahap 2: 201 ruas/590 titik, 31 waterway/156 titik, 19 poligon air/225 titik, lisensi ODbL, proyeksi tanpa warp, tujuh nama jalan kunci, jarak maksimum 60 unit ke keenam anchor, builder `buildVoidDPenjaringan()`, jembatan otomatis, delapan mesh `voidd-*`, serta larangan `PointLight` dan material malam baru. Check 47 mengunci infill Void D Tahap 3: urutan `buildVoidDInfill()` setelah jaringan, lima `InstancedMesh` (rumah, ruko, atap rumah, gudang, atap gudang), tujuh koridor ruko, 13 zona permukiman, dua klaster gudang, mask jalan/air/anchor/Pluit, batas koridor ruko sendiri, serta larangan `PointLight` dan material malam baru. Check 48 mengunci transit Void D Tahap 4: urutan `buildVoidDTransit()` setelah infill, Park-and-Ride TWA Angke Kapuk, enam feeder halte yang berlabuh pada jalan OSM (Pantai Indah Kapuk, TWA, Kapuk Raya, Kapuk Muara, Teluk Gong, Pluit Utara), tiga mesh gabungan + dua `InstancedMesh` pohon, serta larangan `PointLight` dan material malam baru. Check 49 mengunci enam anchor Void E Tahap 1: rentang posisi x/y/z, deviasi GPS ≤80 unit, builder dengan marker mesh, mapping `CityScene`, tombol tour #94–#99, minimal tiga fakta edukatif, jarak minimum 70 unit antaranchor, perluasan ground plane 4.800 unit, grid 4.400 unit/220 divisi, serta larangan `PointLight`. Check 50 mengunci dataset OSM Void E Tahap 2: 148 ruas/640 titik dan 23 waterway/252 titik dengan koordinat terbatas pada clip box, lisensi ODbL, proyeksi tanpa warp, sepuluh nama jalan kunci, lima nama waterway, lebar jalan per kelas, jarak maksimum 60 unit ke lima anchor (<85 unit untuk Rusunawa Nagrak), eksklusi jalur inspeksi Kanal Banjir Timur, serta larangan ruas yang menumpang badan kanal. Check 51 mengunci builder jaringan Void E Tahap 2: urutan `buildVoidECilincing()` setelah `buildVoidDTransit()`, impor dataset OSM, delapan mesh `voide-*`, konektor `Akses Rusunawa Nagrak` ke Jalan Komplek Militer, jembatan otomatis, PJU dan pohon tanpa `PointLight` serta material malam baru, statistik `voidEOsmStats` delapan draw call, dan mask `isNearVoidERoad` untuk infill Tahap 3. Check 52 mengunci infill Void E Tahap 3: urutan `buildVoidEInfill()` setelah jaringan, lima `InstancedMesh` `voide-*` (rumah, ruko, atap, gudang, atap gudang), empat koridor ruko, zona Cilincing/Kebantenan/Marunda/Rorotan/Sungai Tiram, klaster gudang KBN Cakung/Marunda/Cilincing industri, mask jalan/air/enam anchor, batas koridor ruko sendiri, statistik `voidEInfillStats` lima draw call, serta larangan `PointLight` dan material malam baru. Check 53 mengunci transit Void E Tahap 4: urutan `buildVoidETransit()` setelah infill dan sebelum `buildVoidBInfillAndIndustry()`, Park-and-Ride Marunda, enam feeder halte yang berlabuh pada jalan OSM (Marunda Empang, Jayapura, Medan, Komplek Militer, Cakung Cilincing Timur, Malaka IV HB), lima mesh `voide-transit-*`, statistik `voidETransitStats` lima draw call, reservasi lahan `transitReservations` pada infill, serta larangan `PointLight` dan material malam baru. Ini bukan pengganti pengujian render atau performa di browser.
 
 Hasil audit visual, statistik draw call per sudut pandang, dan daftar temuan P2/P3 ada di [docs/verification/2026-10-27-visual-audit.md](docs/verification/2026-10-27-visual-audit.md).
 
